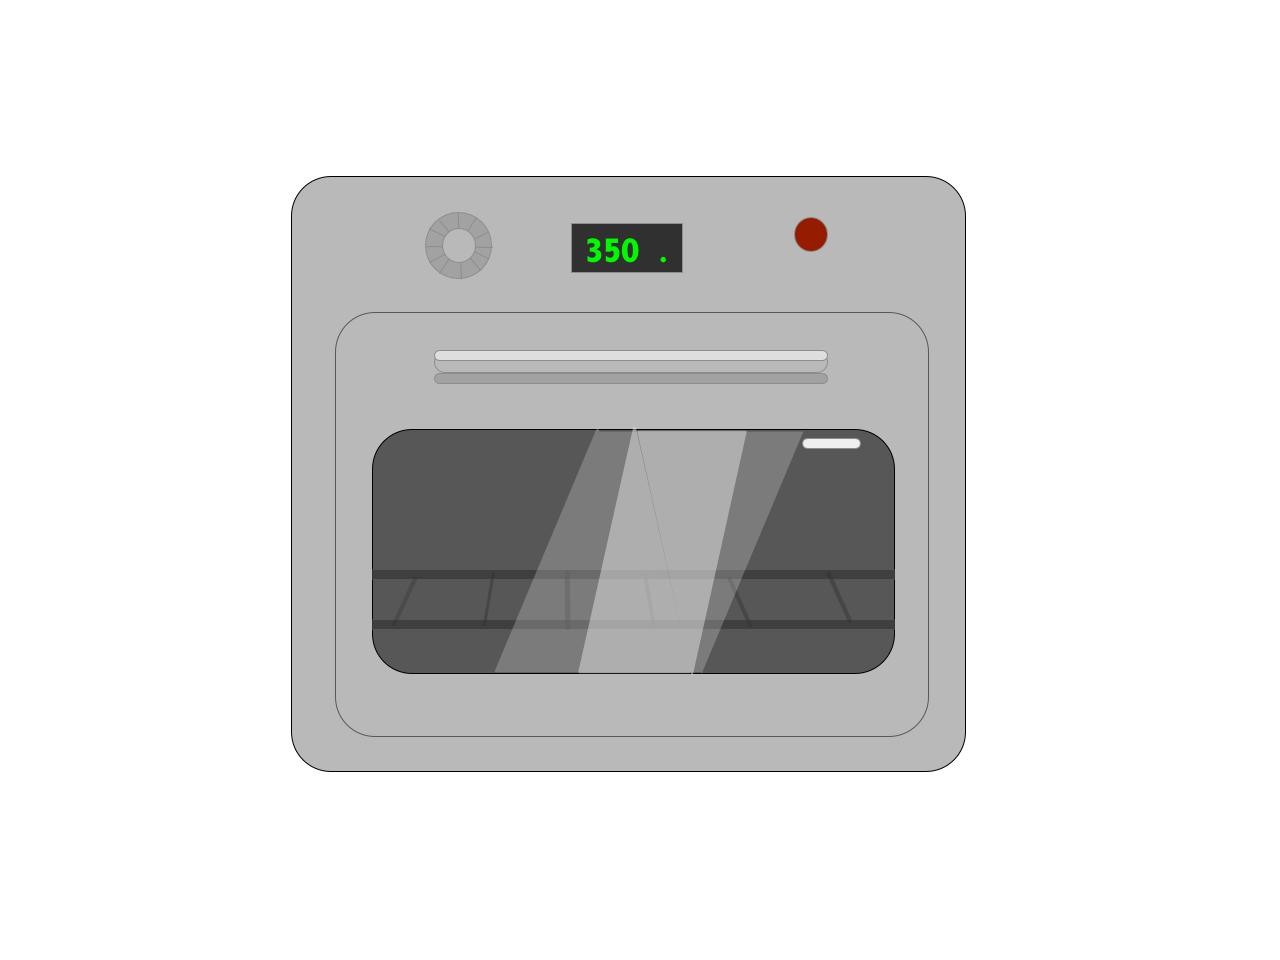
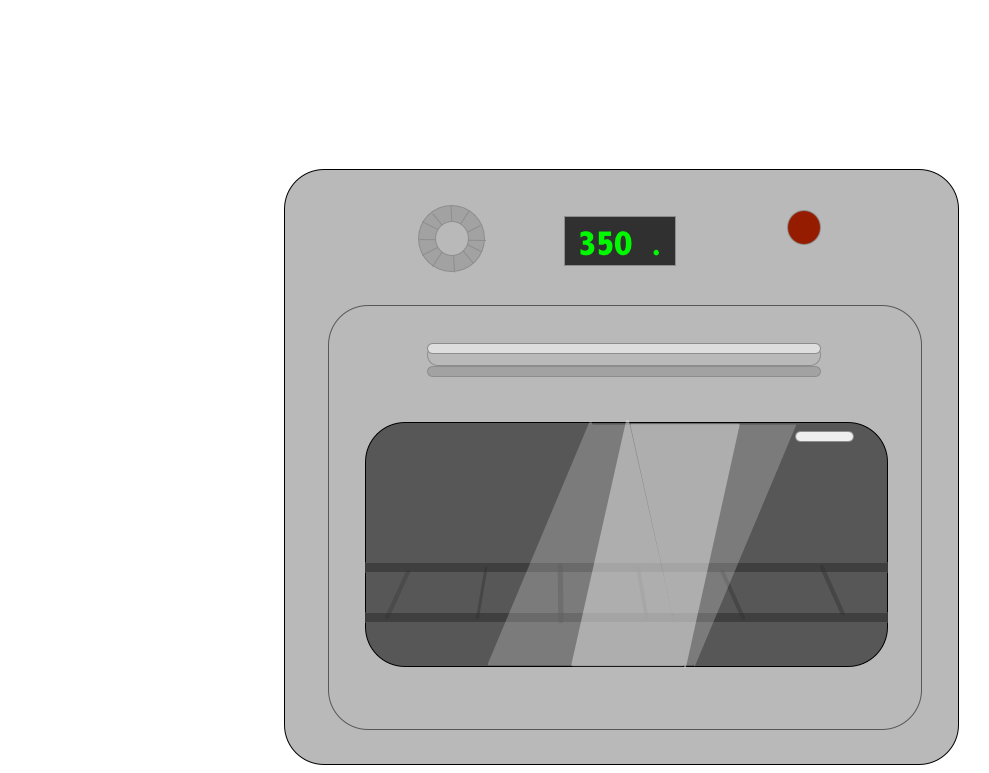
kitchen buttons work, loading bar appears

diff --git a/client/src/App.js b/client/src/App.js
@@ -58,12 +58,14 @@ class App extends React.Component {
     }
     if (id === 'harvestBtn') {
       this.setState({
-        harvested: true
+        harvested: true,
+        watered: false
       })
     }
   }
 
   showBar = () => {
+    console.log('show da bar!')
     this.setState({
       bakeBtn: true
     })
@@ -150,8 +152,23 @@ class App extends React.Component {
                   weeded={this.state.weeded}
                   harvested={this.state.harvested}
                 />} />
-                <Route path='/store' component={CCStore} />
-                <Route path='/kitchen' component={CCKitchen} />
+                <Route path='/store' exact render={(props) => <CCStore {...props}
+                  producePicked={producePicked}
+                  tendGarden={this.tendGarden}
+                  watered={this.state.watered}
+                  weeded={this.state.weeded}
+                  harvested={this.state.harvested}
+                />} />
+                {/* <Route path='/store' component={CCStore} /> */}
+                <Route path='/kitchen' exact render={(props) => <CCKitchen {...props}
+                  producePicked={producePicked}
+                  tendGarden={this.tendGarden}
+                  watered={this.state.watered}
+                  weeded={this.state.weeded}
+                  harvested={this.state.harvested}
+                  showBar={this.showBar}
+                />} />
+                {/* <Route path='/kitchen' component={CCKitchen} /> */}
                 <Route path='/market' component={CCMarket} />
               </Switch>
             </div>
@@ -160,7 +177,8 @@ class App extends React.Component {
                 grabCrop={this.grabCrop} 
                 watered={this.state.watered}
                 weeded={this.state.weeded}
-                harvested={this.state.harvested} />
+                harvested={this.state.harvested}
+                bakeBtn={this.state.bakeBtn} />
             </div>
           </div>
         </div>

diff --git a/client/src/components/kitchen/components/Kitchen.js b/client/src/components/kitchen/components/Kitchen.js
@@ -5,6 +5,7 @@ import Counter from './Counter'
 import KitchenButton from './KitchenButton'
 import LoadingBar from './loadingBar'
 import PropTypes from 'prop-types'
+import { NavLink } from 'react-router-dom'
 
 
 class Kitchen extends Component {
@@ -19,12 +20,18 @@ class Kitchen extends Component {
     }
   }
   render() {
-    // console.log(this.props.bakeBtn)
-    // console.log(this.props)
     return (
       <div className='Kitchen'>
         {this.props.bakeBtn ? <LoadingBar /> : null }
-        {this.props.bakeBtn ? <KitchenButton goToMarket={this.props.goToMarket} /> : null }
+        {this.props.bakeBtn ? 
+          <NavLink to={{
+            pathname: '/market',
+            produceProps:{
+              producePicked: this.props.producePicked
+            }
+          }}>
+            <KitchenButton />
+          </NavLink> : null }
         <div className="workspace">
           {this.state.producePicked === 'lemon' ? <Counter /> : <Oven />}
         </div>

diff --git a/client/src/components/controlCenter/components/CCStore.js b/client/src/components/controlCenter/components/CCStore.js
@@ -1,6 +1,7 @@
 import React, { Component } from 'react'
 import '../../../App.css'
 import PropTypes from 'prop-types'
+import { NavLink } from 'react-router-dom'
 // import StoreGrid from '../StoreGrid';
 
 class CCStore extends Component {
@@ -15,6 +16,15 @@ class CCStore extends Component {
           className="btn"
           onClick={this.props.makePurchase}>Buy!
         </button>
+        <NavLink to={{
+          pathname: '/kitchen',
+          produceProps:{
+            producePicked: this.props.producePicked
+          }
+        }}>
+          <button className='btn'
+          >Ready for the kitchen!</button>
+        </NavLink>
       </div>
     )
   }
@@ -22,7 +32,8 @@ class CCStore extends Component {
 CCStore.propTypes = {
   grabTotal: PropTypes.func,
   makePurchase: PropTypes.func,
-  runningTotal: PropTypes.number
+  runningTotal: PropTypes.number,
+  producePicked: PropTypes.string
 }
 
 export default CCStore

diff --git a/client/src/components/controlCenter/components/CCGarden.js b/client/src/components/controlCenter/components/CCGarden.js
@@ -17,14 +17,15 @@ class CCGarden extends React.Component {
   showBtn = () => {
     setTimeout(() => {
       this.setState({buttonReady: true})
-    }, 7000)
+    }, 8000)
   }
   render() {
     return (
       <div className="CCGarden">
-        <button className={ this.props.watered ? 'hideBtn' : 'btn' }
-          data-valuename="waterBtn"
-          onClick={this.props.tendGarden}>Water</button>
+        {this.props.harvested ? null : 
+          <button className={this.props.watered ? 'hideBtn' : 'btn' }
+            data-valuename="waterBtn"
+            onClick={this.props.tendGarden}>Water</button>}
 
         <button className={ this.props.weeded ? 'hideBtn' : 'btn' }
           data-valuename="weedBtn"

diff --git a/client/src/components/GameBoard.js b/client/src/components/GameBoard.js
@@ -31,6 +31,7 @@ class GameBoard extends Component {
           />} />
           <Route path='/kitchen' exact render={(props) => <Kitchen {...props}
             grabCrop={this.props.grabCrop}
+            bakeBtn={this.props.bakeBtn}
           />} />
           <Route path='/market' exact render={(props) => <SellingStand {...props}
             grabCrop={this.props.grabCrop}
@@ -46,7 +47,8 @@ GameBoard.propTypes = {
   grabCrop: PropTypes.func,
   weeded: PropTypes.bool,
   watered: PropTypes.bool,
-  harvested: PropTypes.bool
+  harvested: PropTypes.bool,
+  bakeBtn: PropTypes.bool
 }
 
 export default GameBoard

diff --git a/client/src/App.css b/client/src/App.css
@@ -393,7 +393,7 @@ a {
 }
 
 .oven {
-  width: 70%;
+  width: 60%;
   margin-top: 2em;
 }
 
